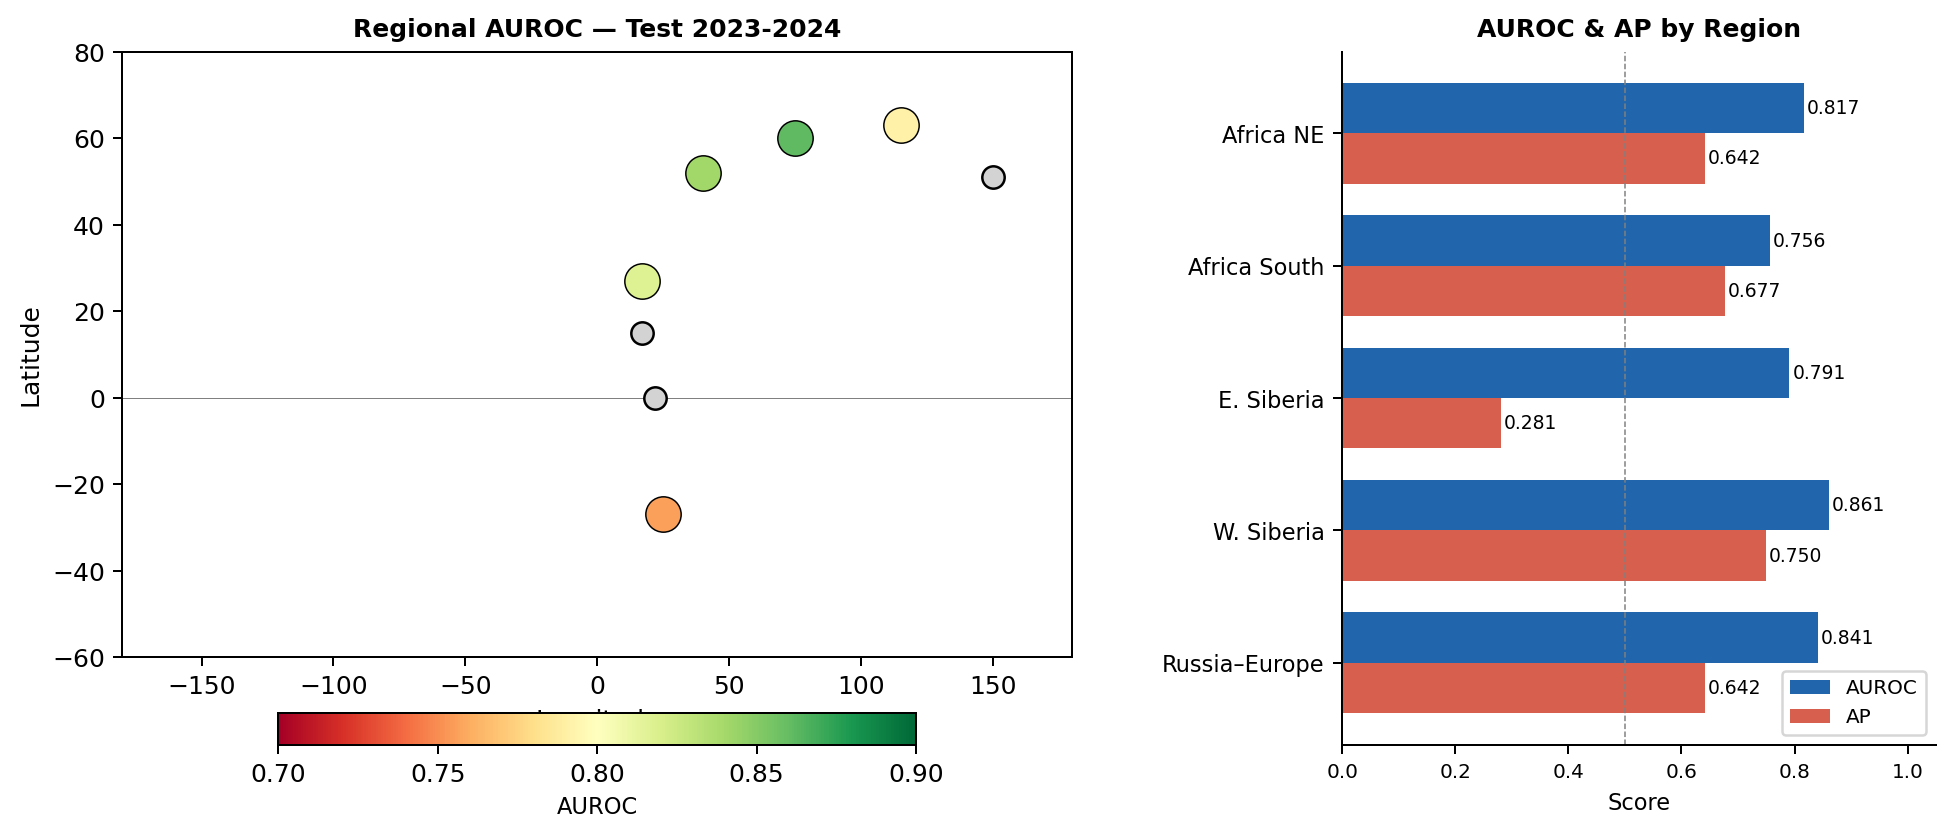
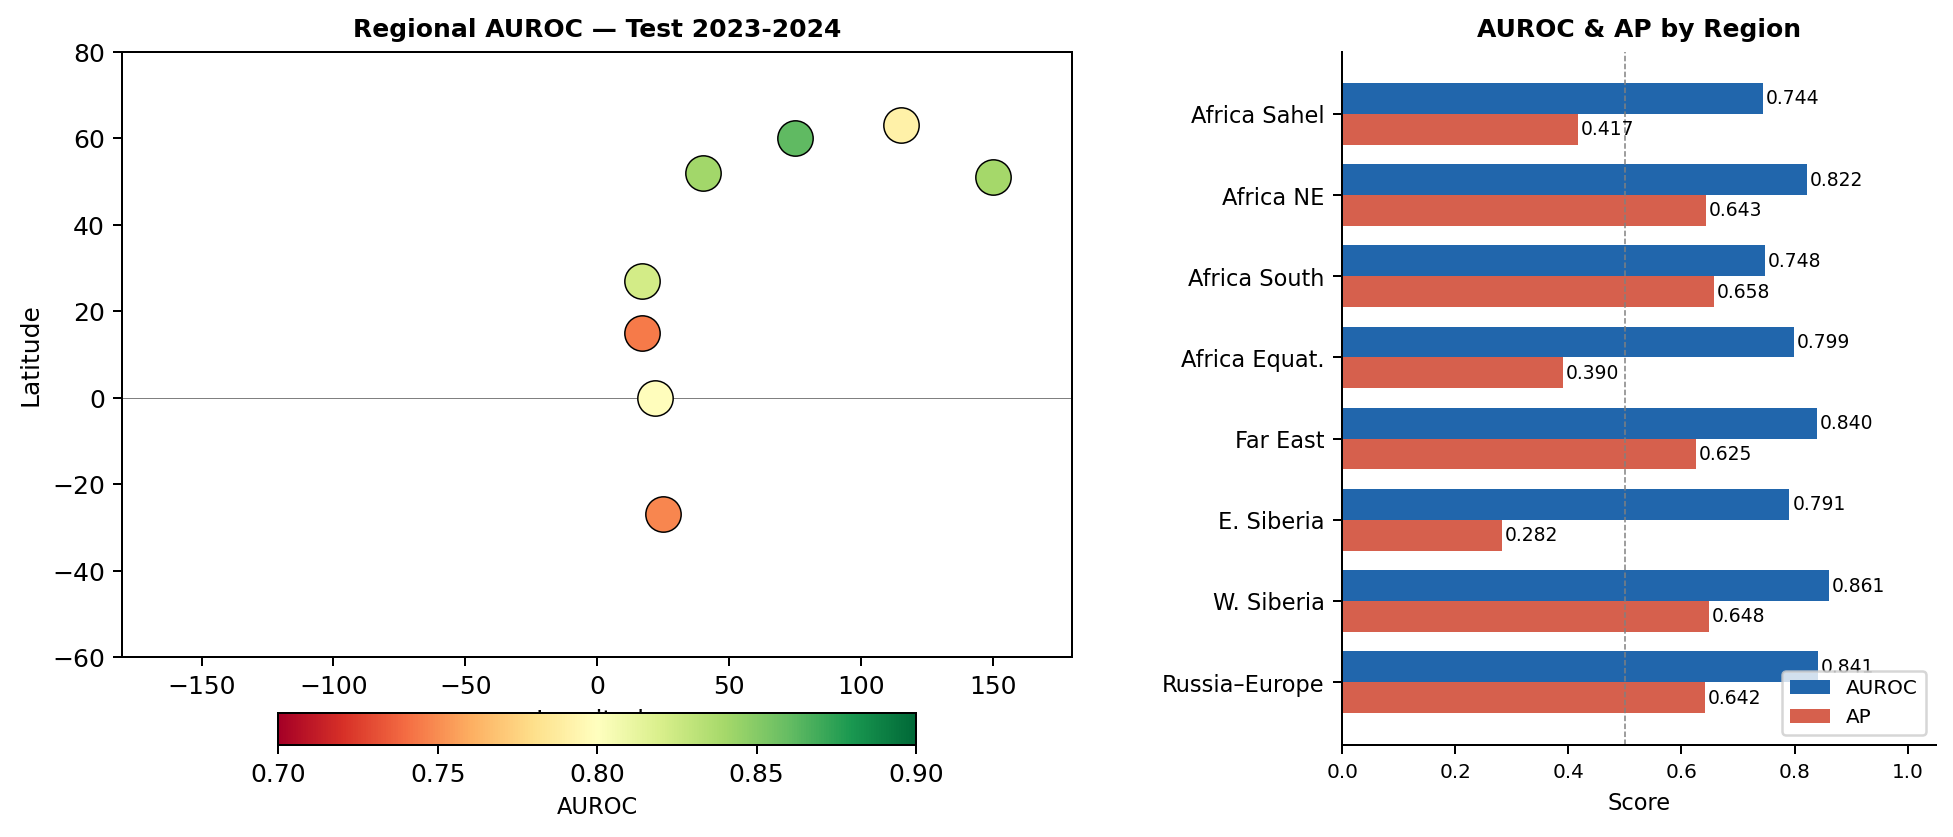
Update figures with complete regional/seasonal data from pr+elev run
All 8 regions and 4 seasons now have real values (no TBD).
Data source: pr+elev ablation run (epoch=14), experiment/no-elevation branch.

diff --git a/generate_paper_figures.py b/generate_paper_figures.py
@@ -21,21 +21,21 @@ os.makedirs(OUT_DIR, exist_ok=True)
 # ── Known results from MLflow (best model: pr+tasmax+tasmin+elev, epoch=22) ──────
 # Missing values filled as None
 REGIONAL_KNOWN = [
-    {"region": "russia_europe",       "AUROC": 0.841, "AP": 0.642, "pos_rate": 0.163, "n_samples": 24300},
-    {"region": "russia_west_siberia", "AUROC": 0.861, "AP": 0.750, "pos_rate": 0.210, "n_samples": 12100},
-    {"region": "russia_east_siberia", "AUROC": 0.791, "AP": 0.281, "pos_rate": 0.047, "n_samples": 8500},
-    {"region": "africa_south",        "AUROC": 0.756, "AP": 0.677, "pos_rate": 0.190, "n_samples": 5800},
-    {"region": "africa_north_east",   "AUROC": 0.817, "AP": 0.642, "pos_rate": 0.142, "n_samples": 7200},
-    {"region": "russia_far_east",     "AUROC": None,  "AP": None,  "pos_rate": None,  "n_samples": 0},
-    {"region": "africa_equatorial",   "AUROC": None,  "AP": None,  "pos_rate": None,  "n_samples": 0},
-    {"region": "africa_sahel_east",   "AUROC": None,  "AP": None,  "pos_rate": None,  "n_samples": 0},
+    {"region": "russia_europe",       "AUROC": 0.841, "AP": 0.642, "pos_rate": 0.241, "n_samples": 18680},
+    {"region": "russia_west_siberia", "AUROC": 0.861, "AP": 0.648, "pos_rate": 0.188, "n_samples": 6957},
+    {"region": "russia_east_siberia", "AUROC": 0.791, "AP": 0.282, "pos_rate": 0.044, "n_samples": 5717},
+    {"region": "russia_far_east",     "AUROC": 0.840, "AP": 0.625, "pos_rate": 0.216, "n_samples": 4572},
+    {"region": "africa_equatorial",   "AUROC": 0.799, "AP": 0.390, "pos_rate": 0.141, "n_samples": 991},
+    {"region": "africa_south",        "AUROC": 0.748, "AP": 0.658, "pos_rate": 0.330, "n_samples": 4512},
+    {"region": "africa_north_east",   "AUROC": 0.822, "AP": 0.643, "pos_rate": 0.302, "n_samples": 3546},
+    {"region": "africa_sahel_east",   "AUROC": 0.744, "AP": 0.417, "pos_rate": 0.189, "n_samples": 1196},
 ]
 
 SEASONAL_KNOWN = [
-    {"season": "DJF", "AUROC": 0.869, "AP": 0.793, "pos_rate": 0.171},
-    {"season": "MAM", "AUROC": None,  "AP": None,  "pos_rate": None},
-    {"season": "JJA", "AUROC": 0.819, "AP": 0.678, "pos_rate": 0.087},
-    {"season": "SON", "AUROC": None,  "AP": None,  "pos_rate": None},
+    {"season": "DJF", "AUROC": 0.869, "AP": 0.793, "pos_rate": 0.395},
+    {"season": "MAM", "AUROC": 0.852, "AP": 0.774, "pos_rate": 0.369},
+    {"season": "JJA", "AUROC": 0.819, "AP": 0.678, "pos_rate": 0.311},
+    {"season": "SON", "AUROC": 0.831, "AP": 0.708, "pos_rate": 0.354},
 ]
 
 REGION_LABELS = {
